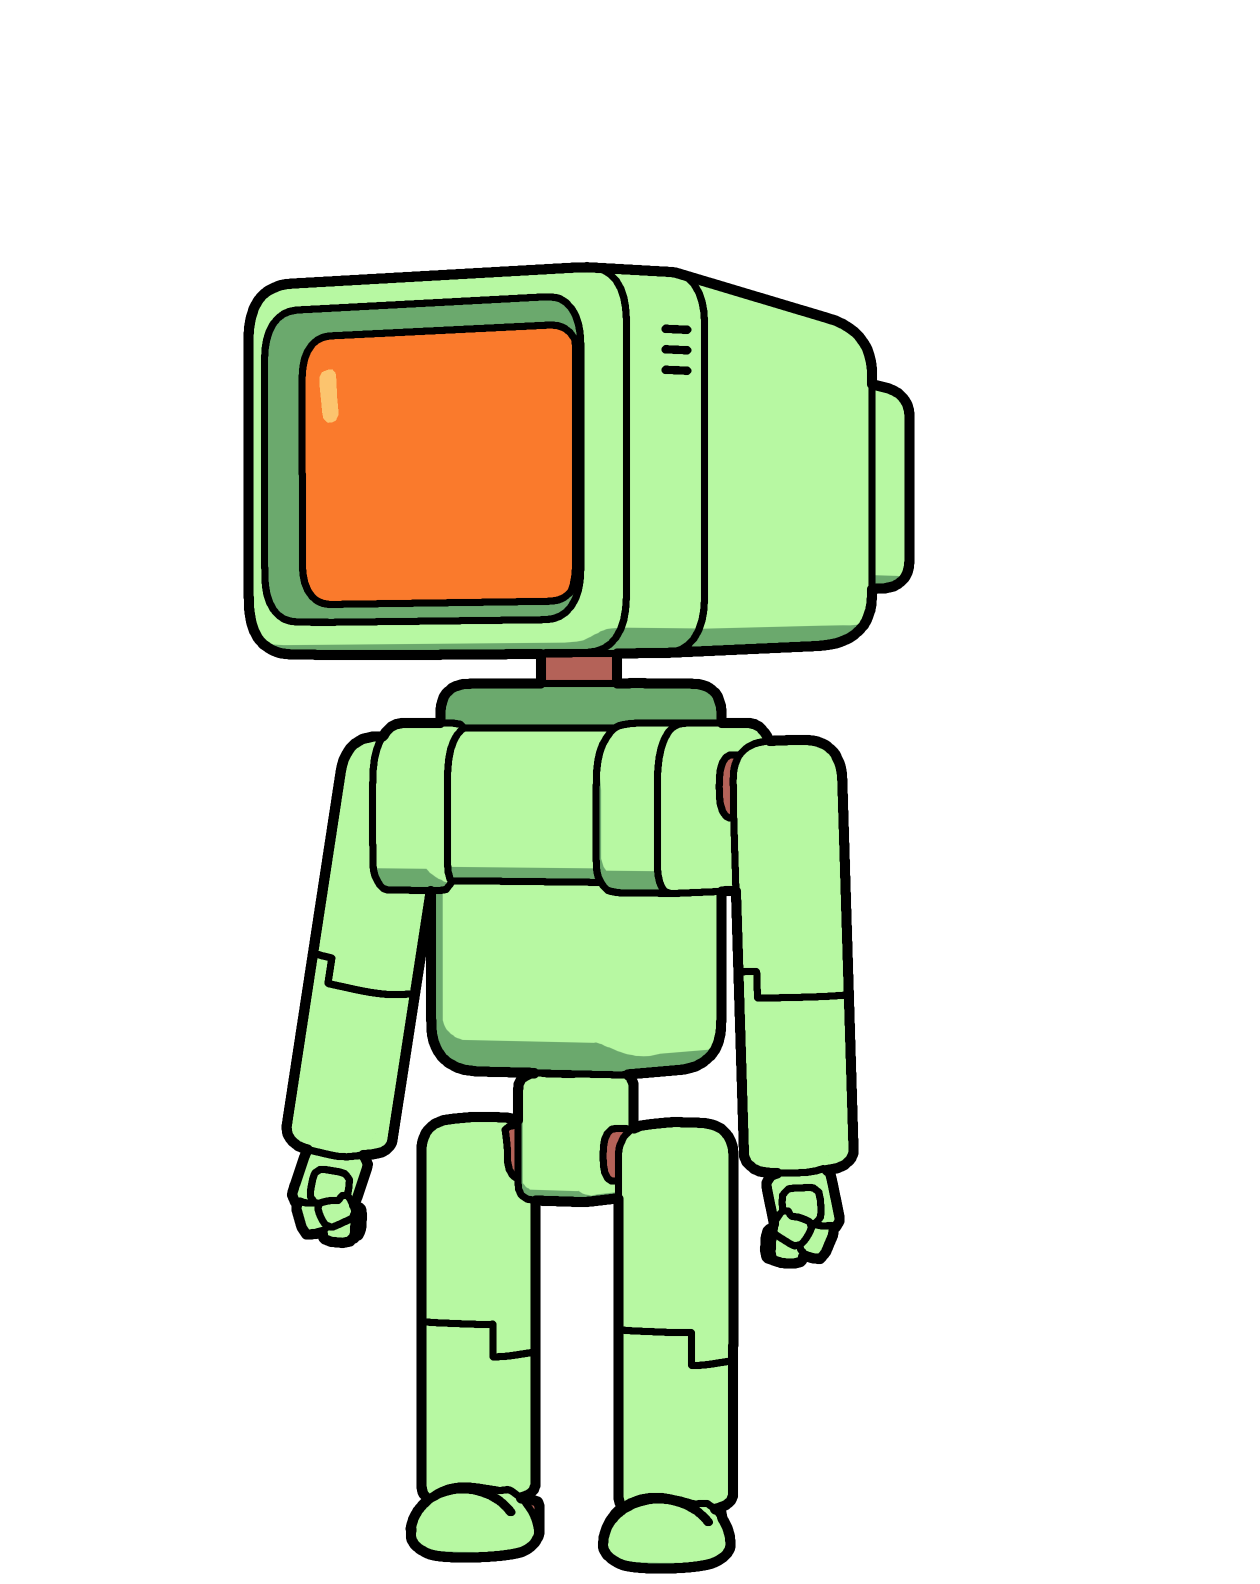
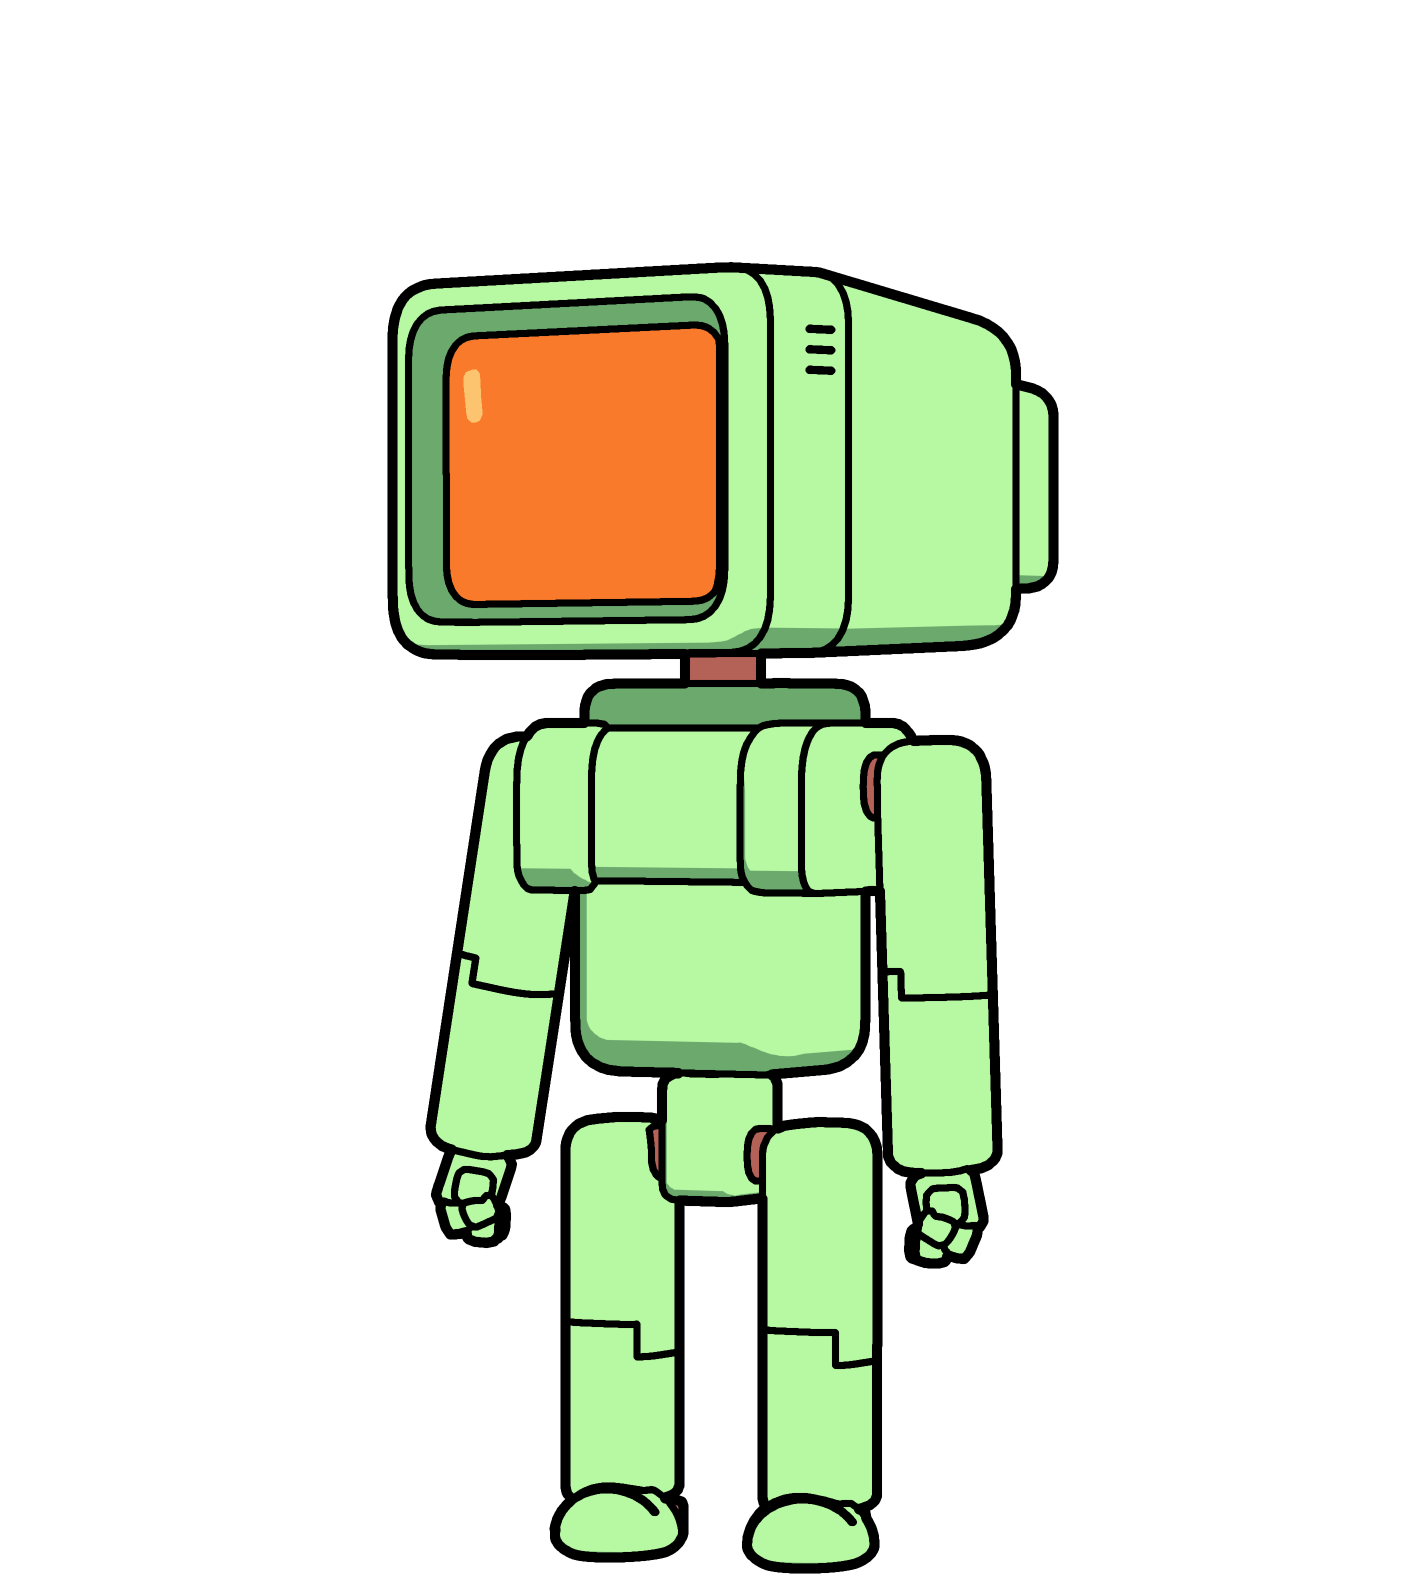
feat: Add mascot dance move to beta tester cta form

Changed region(s): [[0.1857, 0.1547, 0.7738, 1.0]]

diff --git a/app/components/AppHomeHero.vue b/app/components/AppHomeHero.vue
@@ -23,60 +23,26 @@ const WAVE_SWING = 22 // degrees the forearm swings around that bend
 const WAVE_FREQ = 9 // rad/s
 const WAVE_PALM = 30 // degrees the wrist twists so the palm faces the viewer
 const WAVE_WRIST = 18 // degrees the hand swings, trailing the forearm
-const WAVE_KNUCKLE = 30 // degrees the fingers uncurl at the knuckle while waving
-const WAVE_FINGERTIP = 60 // degrees the fingertips uncurl on top of that
-const DANCE_BEAT = 0.45 // seconds per dance pose
-const DANCE_BOUNCE = 14 // degrees the knees dip on every beat
-const LEG_LENGTH = 2.8 // thigh plus shin in model units, to lower the hips by what the knees bend
 
-// Degrees added to a joint axis (`arm_L.z`), plus `open` (waving hand, 0 to 1) and `bend` (knees).
-type Pose = Record<string, number>
-type Motion = { dur: number, at: (t: number, pose: Pose) => void }
-
-const ease = (x: number) => (x < 0.5 ? 4 * x * x * x : 1 - (-2 * x + 2) ** 3 / 2)
 const keyframed = (frames: [number, number][]) => (t: number) => {
   for (let i = 1; i < frames.length; i++) {
     const [t0, a0] = frames[i - 1]!
     const [t1, a1] = frames[i]!
-    if (t <= t1) return a0 + (a1 - a0) * ease((t - t0) / (t1 - t0))
+    if (t <= t1) return a0 + (a1 - a0) * easeInOut((t - t0) / (t1 - t0))
   }
   return frames[frames.length - 1]![1]
 }
 const lift = keyframed([[0, 0], [0.5, 1], [WAVE_DUR - 0.5, 1], [WAVE_DUR, 0]])
-const add = (pose: Pose, key: string, value: number) => {
-  pose[key] = (pose[key] ?? 0) + value
-}
 const wave = (t: number, pose: Pose) => {
   if (t >= WAVE_DUR) return
   const raised = lift(t)
-  add(pose, 'arm_L.z', raised * WAVE_ARM)
-  add(pose, 'forearm_L.z', raised * (WAVE_FOREARM + WAVE_SWING * Math.sin((t - 0.5) * WAVE_FREQ)))
-  add(pose, 'hand_L.y', raised * WAVE_PALM)
-  add(pose, 'hand_L.z', raised * WAVE_WRIST * Math.sin((t - 0.5) * WAVE_FREQ - 0.8))
-  add(pose, 'open', raised)
+  addToPose(pose, 'arm_L.z', raised * WAVE_ARM)
+  addToPose(pose, 'forearm_L.z', raised * (WAVE_FOREARM + WAVE_SWING * Math.sin((t - 0.5) * WAVE_FREQ)))
+  addToPose(pose, 'hand_L.y', raised * WAVE_PALM)
+  addToPose(pose, 'hand_L.z', raised * WAVE_WRIST * Math.sin((t - 0.5) * WAVE_FREQ - 0.8))
+  addToPose(pose, 'open', raised)
 }
 const waveMotion: Motion = { dur: WAVE_DUR, at: wave }
-
-const GROOVE: Pose = { 'arm_R.z': -75, 'forearm_R.z': -35, 'arm_L.z': 45, 'torso.z': 6, 'head.z': -6 }
-const GROOVE_BACK: Pose = { 'arm_L.z': 75, 'forearm_L.z': 35, 'arm_R.z': -45, 'torso.z': -6, 'head.z': 6 }
-const PUMP: Pose = { 'arm_L.z': 80, 'forearm_L.z': 100, 'head.z': 12 }
-const CHEER: Pose = { 'arm_L.z': 135, 'forearm_L.z': 20, 'arm_R.z': -135, 'forearm_R.z': -20, 'bend': 12 }
-const POINT: Pose = { 'arm_R.z': -125, 'arm_L.z': 25, 'torso.z': 5, 'head.z': -8 }
-const DAB: Pose = { 'arm_L.z': 95, 'arm_R.z': -30, 'torso.z': -8, 'head.z': 15 }
-const DANCE = [GROOVE, GROOVE_BACK, GROOVE, GROOVE_BACK, PUMP, CHEER, CHEER, POINT, DAB]
-const REST: Pose = {}
-const dance = (t: number, pose: Pose) => {
-  const beat = Math.floor(t / DANCE_BEAT)
-  const from = DANCE[beat - 1] ?? REST
-  const to = DANCE[beat] ?? REST
-  // Poses snap in over the first part of a beat and hold for the rest.
-  const u = ease(Math.min(1, (t / DANCE_BEAT - beat) / 0.6))
-  for (const key in from) add(pose, key, from[key]! * (1 - u))
-  for (const key in to) add(pose, key, to[key]! * u)
-  const fade = Math.min(1, t / DANCE_BEAT, (danceMotion.dur - t) / DANCE_BEAT)
-  add(pose, 'bend', fade * DANCE_BOUNCE * (0.5 - 0.5 * Math.cos(t / DANCE_BEAT * 2 * Math.PI)))
-}
-const danceMotion: Motion = { dur: (DANCE.length + 1) * DANCE_BEAT, at: dance }
 
 let boogie = () => {}
 const onMascotClick = () => boogie()
@@ -106,14 +72,7 @@ onMounted(async () => {
   }
 
   const head = mascot.joints.head!
-  const pelvis = mascot.joints.pelvis!
-  const pelvisRest = pelvis.position.y
-  const posed = Object.entries(mascot.joints)
-    .filter(([name]) => name !== 'head')
-    .map(([name, joint]) => ({ name, joint, rest: joint.rotation.clone() }))
-  const fingers = Object.entries(mascot.joints)
-    .filter(([name]) => name.startsWith('finger_L'))
-    .map(([name, joint]) => ({ joint, uncurl: name.endsWith('_tip') ? WAVE_FINGERTIP : WAVE_KNUCKLE }))
+  const applyPose = createPoser(mascot.joints)
   const bodyYaw = mascot.joints.mascot!.rotation.y / DEG
   const restYaw = head.rotation.y / DEG
   const clamp = (v: number, min: number, max: number) => Math.min(max, Math.max(min, v))
@@ -135,22 +94,7 @@ onMounted(async () => {
     active = active.filter(a => now - a.t0 < a.motion.dur * 1000)
     for (const a of active) a.motion.at((now - a.t0) / 1000, pose)
 
-    const bend = pose.bend ?? 0
-    for (const side of ['L', 'R']) {
-      add(pose, `leg_${side}.x`, -bend)
-      add(pose, `shin_${side}.x`, 2 * bend)
-      add(pose, `foot_${side}.x`, -bend)
-    }
-    for (const { name, joint, rest } of posed) {
-      joint.rotation.set(
-        rest.x + (pose[`${name}.x`] ?? 0) * DEG,
-        rest.y + (pose[`${name}.y`] ?? 0) * DEG,
-        rest.z + (pose[`${name}.z`] ?? 0) * DEG
-      )
-    }
-    head.rotation.set(pitch * DEG, yaw * DEG, (pose['head.z'] ?? 0) * DEG)
-    pelvis.position.y = pelvisRest - LEG_LENGTH * (1 - Math.cos(bend * DEG))
-    for (const { joint, uncurl } of fingers) joint.rotation.z += (pose.open ?? 0) * uncurl * DEG
+    applyPose(pose, pitch, yaw)
     mascot.render()
     ready.value = true
 
@@ -314,10 +258,10 @@ onMounted(async () => {
           <img
             src="/assets/mascot.webp"
             :alt="$t('hero.mascotAlt')"
-            width="1260"
+            width="1404"
             height="1584"
             loading="lazy"
-            class="drop-shadow-mascot pointer-events-none absolute bottom-0 left-[-30%] h-[120%] w-[175%] max-w-none"
+            class="drop-shadow-mascot pointer-events-none absolute bottom-0 left-[-50%] h-[120%] w-[195%] max-w-none"
             :class="{ 'opacity-0': ready }"
           >
           <canvas

diff --git a/app/components/AppCta.vue b/app/components/AppCta.vue
@@ -12,6 +12,10 @@ const error = ref('')
 // Honeypot, stays empty for real users.
 const website = ref('')
 
+const boxEl = useTemplateRef<HTMLDivElement>('boxEl')
+const canvasEl = useTemplateRef<HTMLCanvasElement>('canvasEl')
+const live = ref(false)
+
 const { t } = useI18n()
 const localePath = useLocalePath()
 
@@ -32,6 +36,51 @@ const typeItems = computed(() => [
   { value: 'agency', label: t('cta.details.type.agency') },
   { value: 'freelancer', label: t('cta.details.type.freelancer') }
 ])
+
+let unmounted = false
+let stopDance = () => {}
+onBeforeUnmount(() => {
+  unmounted = true
+  stopDance()
+})
+
+const celebrate = async () => {
+  const box = boxEl.value
+  const canvas = canvasEl.value
+  if (!box || !canvas || window.matchMedia('(prefers-reduced-motion: reduce)').matches) return
+
+  // Imported on demand so three.js is only loaded for visitors who sign up.
+  const mascot = await import('~/utils/mascot')
+    .then(m => m.createMascot(canvas, '/assets/mascot.glb', true))
+    .catch(() => null)
+  if (!mascot) return
+  if (unmounted) {
+    mascot.dispose()
+    return
+  }
+
+  const applyPose = createPoser(mascot.joints)
+  const yaw = mascot.joints.head!.rotation.y * 180 / Math.PI
+  mascot.setSize(box.clientWidth, box.clientHeight)
+  const t0 = performance.now()
+  let raf = 0
+  const tick = () => {
+    const elapsed = (performance.now() - t0) / 1000
+    const pose: Pose = {}
+    if (elapsed < danceMotion.dur) {
+      danceMotion.at(elapsed, pose)
+      raf = requestAnimationFrame(tick)
+    }
+    applyPose(pose, 0, yaw)
+    mascot.render()
+    live.value = true
+  }
+  raf = requestAnimationFrame(tick)
+  stopDance = () => {
+    cancelAnimationFrame(raf)
+    mascot.dispose()
+  }
+}
 
 const submit = async () => {
   if (!/^[^@\s]+@[^@\s]+\.[^@\s]+$/.test(email.value)) {
@@ -56,6 +105,7 @@ const submit = async () => {
       }
     })
     done.value = true
+    celebrate()
   } catch {
     error.value = t('cta.errorFailed')
   } finally {
@@ -74,17 +124,29 @@ const submit = async () => {
       >
         <div class="cta-glow" />
 
-        <div class="relative flex flex-col items-center gap-8 px-4 py-6 lg:flex-row lg:gap-24 lg:p-14">
+        <div class="relative flex flex-col items-center gap-8 px-4 py-6 lg:flex-row lg:gap-16 lg:p-14">
           <div class="shrink-0">
-            <img
-              :src="'/assets/mascotRight.svg'"
-              alt=""
-              aria-hidden="true"
-              width="299"
-              height="560"
-              loading="lazy"
-              class="drop-shadow-mascot h-auto w-36 select-none lg:w-44 mx-auto"
+            <div
+              ref="boxEl"
+              class="relative mx-auto aspect-[654/1199] w-36 select-none lg:ml-8 lg:w-44"
             >
+              <img
+                src="/assets/mascotRight.webp"
+                alt=""
+                aria-hidden="true"
+                width="1404"
+                height="1584"
+                loading="lazy"
+                class="drop-shadow-mascot pointer-events-none absolute bottom-0 left-[-50%] h-[120%] w-[195%] max-w-none"
+                :class="{ 'opacity-0': live }"
+              >
+              <canvas
+                ref="canvasEl"
+                aria-hidden="true"
+                class="drop-shadow-mascot pointer-events-none absolute bottom-0 max-w-none"
+                :class="{ 'opacity-0': !live }"
+              />
+            </div>
           </div>
 
           <div class="flex-1">
@@ -208,6 +270,7 @@ const submit = async () => {
                       :placeholder="$t('cta.emailPlaceholder')"
                       size="xl"
                       :color="error ? 'error' : 'primary'"
+                      :highlight="!!error"
                       :disabled="loading"
                       class="w-full"
                       autocomplete="email"
@@ -226,7 +289,7 @@ const submit = async () => {
 
               <p
                 v-if="error"
-                class="mt-2.5 font-mono text-sm text-error"
+                class="mt-1.5 text-xs text-error"
               >
                 {{ error }}
               </p>

diff --git a/app/utils/mascotMotion.ts b/app/utils/mascotMotion.ts
@@ -1,0 +1,70 @@
+import type { Object3D } from 'three'
+
+const DEG = Math.PI / 180
+const DANCE_BEAT = 0.45 // seconds per dance pose
+const DANCE_BOUNCE = 14 // degrees the knees dip on every beat
+const LEG_LENGTH = 2.8 // thigh plus shin in model units, to lower the hips by what the knees bend
+const OPEN_KNUCKLE = 30 // degrees the fingers uncurl at the knuckle when the hand opens
+const OPEN_FINGERTIP = 60 // degrees the fingertips uncurl on top of that
+
+// Degrees added to a joint axis (`arm_L.z`), plus `open` (left hand, 0 to 1) and `bend` (knees).
+export type Pose = Record<string, number>
+export type Motion = { dur: number, at: (t: number, pose: Pose) => void }
+
+export const easeInOut = (x: number) => (x < 0.5 ? 4 * x * x * x : 1 - (-2 * x + 2) ** 3 / 2)
+export const addToPose = (pose: Pose, key: string, value: number) => {
+  pose[key] = (pose[key] ?? 0) + value
+}
+
+const GROOVE: Pose = { 'arm_R.z': -75, 'forearm_R.z': -35, 'arm_L.z': 45, 'torso.z': 6, 'head.z': -6 }
+const GROOVE_BACK: Pose = { 'arm_L.z': 75, 'forearm_L.z': 35, 'arm_R.z': -45, 'torso.z': -6, 'head.z': 6 }
+const PUMP: Pose = { 'arm_L.z': 80, 'forearm_L.z': 100, 'head.z': 12 }
+const CHEER: Pose = { 'arm_L.z': 135, 'forearm_L.z': 20, 'arm_R.z': -135, 'forearm_R.z': -20, 'bend': 12 }
+const POINT: Pose = { 'arm_R.z': -125, 'arm_L.z': 25, 'torso.z': 5, 'head.z': -8 }
+const DAB: Pose = { 'arm_L.z': 95, 'arm_R.z': -30, 'torso.z': -8, 'head.z': 15 }
+const DANCE = [GROOVE, GROOVE_BACK, GROOVE, GROOVE_BACK, PUMP, CHEER, CHEER, POINT, DAB]
+const REST: Pose = {}
+const dance = (t: number, pose: Pose) => {
+  const beat = Math.floor(t / DANCE_BEAT)
+  const from = DANCE[beat - 1] ?? REST
+  const to = DANCE[beat] ?? REST
+  // Poses snap in over the first part of a beat and hold for the rest.
+  const u = easeInOut(Math.min(1, (t / DANCE_BEAT - beat) / 0.6))
+  for (const key in from) addToPose(pose, key, from[key]! * (1 - u))
+  for (const key in to) addToPose(pose, key, to[key]! * u)
+  const fade = Math.min(1, t / DANCE_BEAT, (danceMotion.dur - t) / DANCE_BEAT)
+  addToPose(pose, 'bend', fade * DANCE_BOUNCE * (0.5 - 0.5 * Math.cos(t / DANCE_BEAT * 2 * Math.PI)))
+}
+export const danceMotion: Motion = { dur: (DANCE.length + 1) * DANCE_BEAT, at: dance }
+
+/** Returns a function that puts the rig into `pose`, with the head at `pitch` and `yaw` degrees. */
+export const createPoser = (joints: Record<string, Object3D>) => {
+  const head = joints.head!
+  const pelvis = joints.pelvis!
+  const pelvisRest = pelvis.position.y
+  const posed = Object.entries(joints)
+    .filter(([name]) => name !== 'head')
+    .map(([name, joint]) => ({ name, joint, rest: joint.rotation.clone() }))
+  const fingers = Object.entries(joints)
+    .filter(([name]) => name.startsWith('finger_L'))
+    .map(([name, joint]) => ({ joint, uncurl: name.endsWith('_tip') ? OPEN_FINGERTIP : OPEN_KNUCKLE }))
+
+  return (pose: Pose, pitch: number, yaw: number) => {
+    const bend = pose.bend ?? 0
+    for (const side of ['L', 'R']) {
+      addToPose(pose, `leg_${side}.x`, -bend)
+      addToPose(pose, `shin_${side}.x`, 2 * bend)
+      addToPose(pose, `foot_${side}.x`, -bend)
+    }
+    for (const { name, joint, rest } of posed) {
+      joint.rotation.set(
+        rest.x + (pose[`${name}.x`] ?? 0) * DEG,
+        rest.y + (pose[`${name}.y`] ?? 0) * DEG,
+        rest.z + (pose[`${name}.z`] ?? 0) * DEG
+      )
+    }
+    head.rotation.set(pitch * DEG, yaw * DEG, (pose['head.z'] ?? 0) * DEG)
+    pelvis.position.y = pelvisRest - LEG_LENGTH * (1 - Math.cos(bend * DEG))
+    for (const { joint, uncurl } of fingers) joint.rotation.z += (pose.open ?? 0) * uncurl * DEG
+  }
+}

diff --git a/app/utils/mascot.ts b/app/utils/mascot.ts
@@ -40,7 +40,7 @@ const OCCLUDED = ['head_lining', 'yoke']
 const MAX_RADIUS = 20
 
 // The canvas is larger than the artwork box so a raised arm or a turned head is not clipped.
-const BLEED = { top: 0.2, right: 0.45, left: 0.3 }
+const BLEED = { top: 0.2, right: 0.45, left: 0.5 }
 const ARTWORK_ASPECT = 654 / 1199
 const INNER_LINE = 5.5 / 600
 const OUTER_LINE = 8 / 600
@@ -113,7 +113,8 @@ const lighting = (o: Object3D) => {
   return BODY
 }
 
-export async function createMascot(canvas: HTMLCanvasElement, url: string) {
+/** `mirrored` turns the rest pose to face right instead of left. */
+export async function createMascot(canvas: HTMLCanvasElement, url: string, mirrored = false) {
   const gltf = await new GLTFLoader().setMeshoptDecoder(MeshoptDecoder).loadAsync(url)
   const joints: Record<string, Object3D> = {}
   const ids = new Map<string, number>()
@@ -129,7 +130,12 @@ export async function createMascot(canvas: HTMLCanvasElement, url: string) {
     o.material = partMaterial(lit, shade, ids.get(key)!, lighting(o), OCCLUDED.includes(key))
   })
   for (const [name, [x, y, z]] of Object.entries(REST_POSE)) {
-    joints[name]!.rotation.set(x * DEG, y * DEG, z * DEG)
+    if (mirrored) {
+      const twin = name.replace(/_[LR]$/, side => (side === '_L' ? '_R' : '_L'))
+      joints[twin]!.rotation.set(x * DEG, -y * DEG, -z * DEG)
+    } else {
+      joints[name]!.rotation.set(x * DEG, y * DEG, z * DEG)
+    }
   }
   // Yaw first, so pitch and roll stay relative to where the head faces.
   joints.head!.rotation.order = 'YXZ'
@@ -233,6 +239,8 @@ export async function createMascot(canvas: HTMLCanvasElement, url: string) {
       radius.value = Math.ceil(outer.value) + 1
     },
     render() {
+      // A hidden box has no size, and drawing into empty targets logs a WebGL error.
+      if (!parts.width || !parts.height) return
       renderer.setRenderTarget(parts)
       renderer.render(scene, camera)
       run(edgePass, edges)

diff --git a/app/components/assistant/AssistantPanelChat.vue b/app/components/assistant/AssistantPanelChat.vue
@@ -41,7 +41,6 @@ watch(isOpen, (value) => {
         <AssistantMessages
           :chat="chat"
           :faq-questions="faqQuestions"
-          class="flex flex-col gap-4"
           @ask-question="send"
         />
       </div>

diff --git a/app/app.vue b/app/app.vue
@@ -20,10 +20,6 @@ useHead(() => ({
   ]
 }))
 
-useSeoMeta({
-  twitterCard: 'summary_large_image'
-})
-
 defineOgImage('Knecht')
 </script>
 
